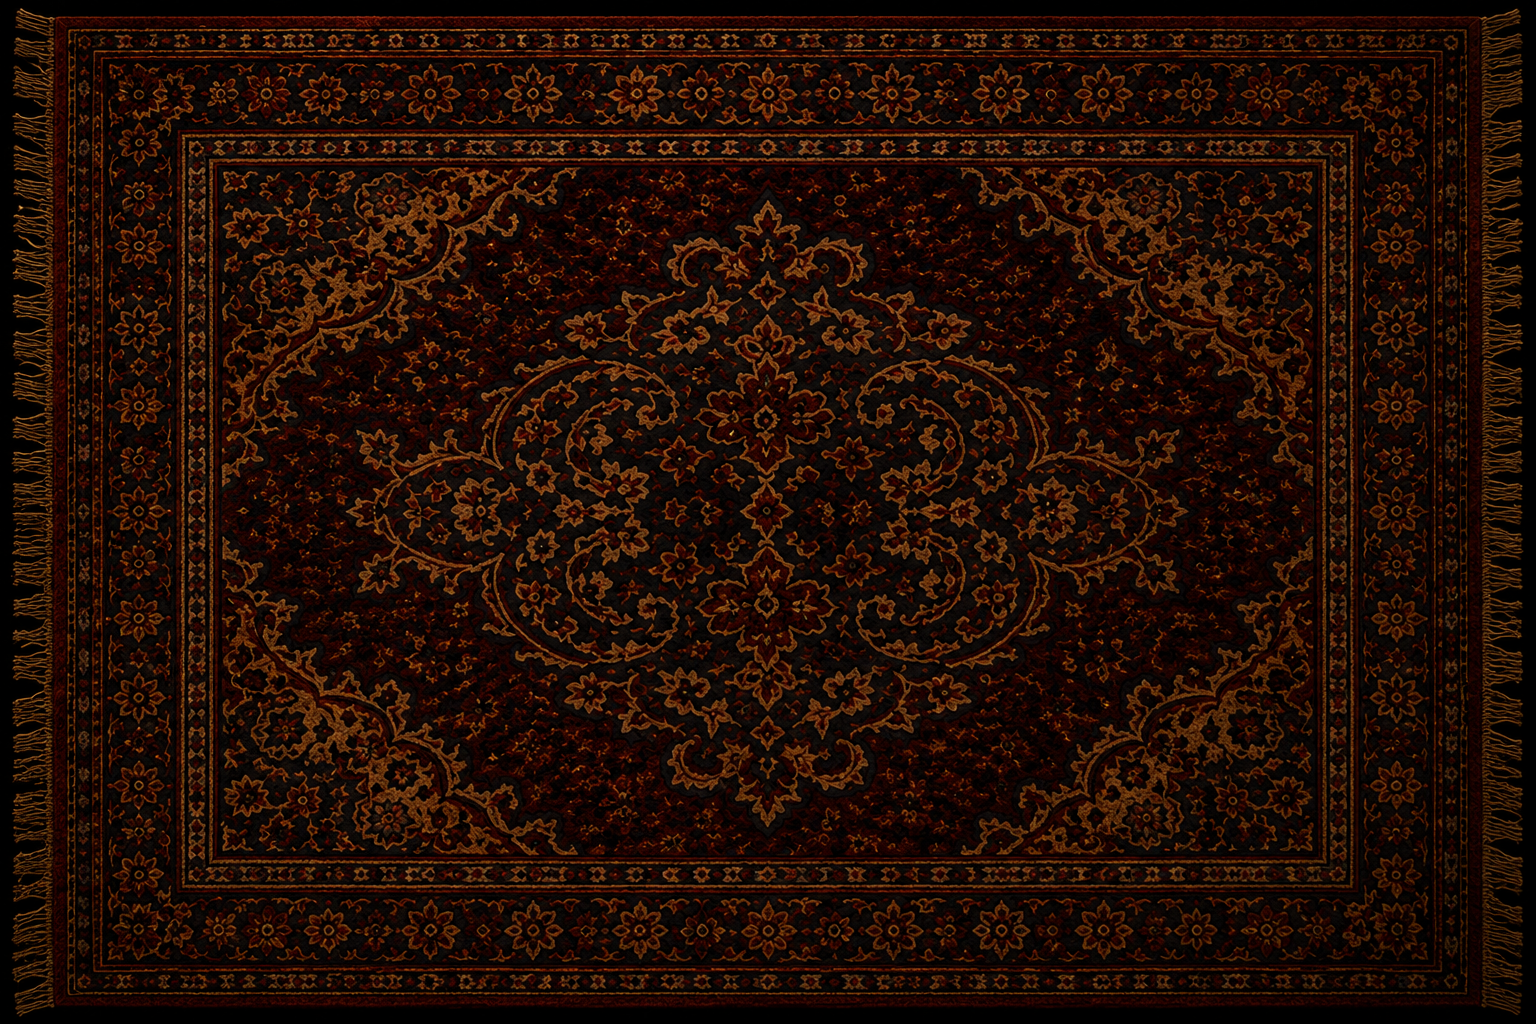
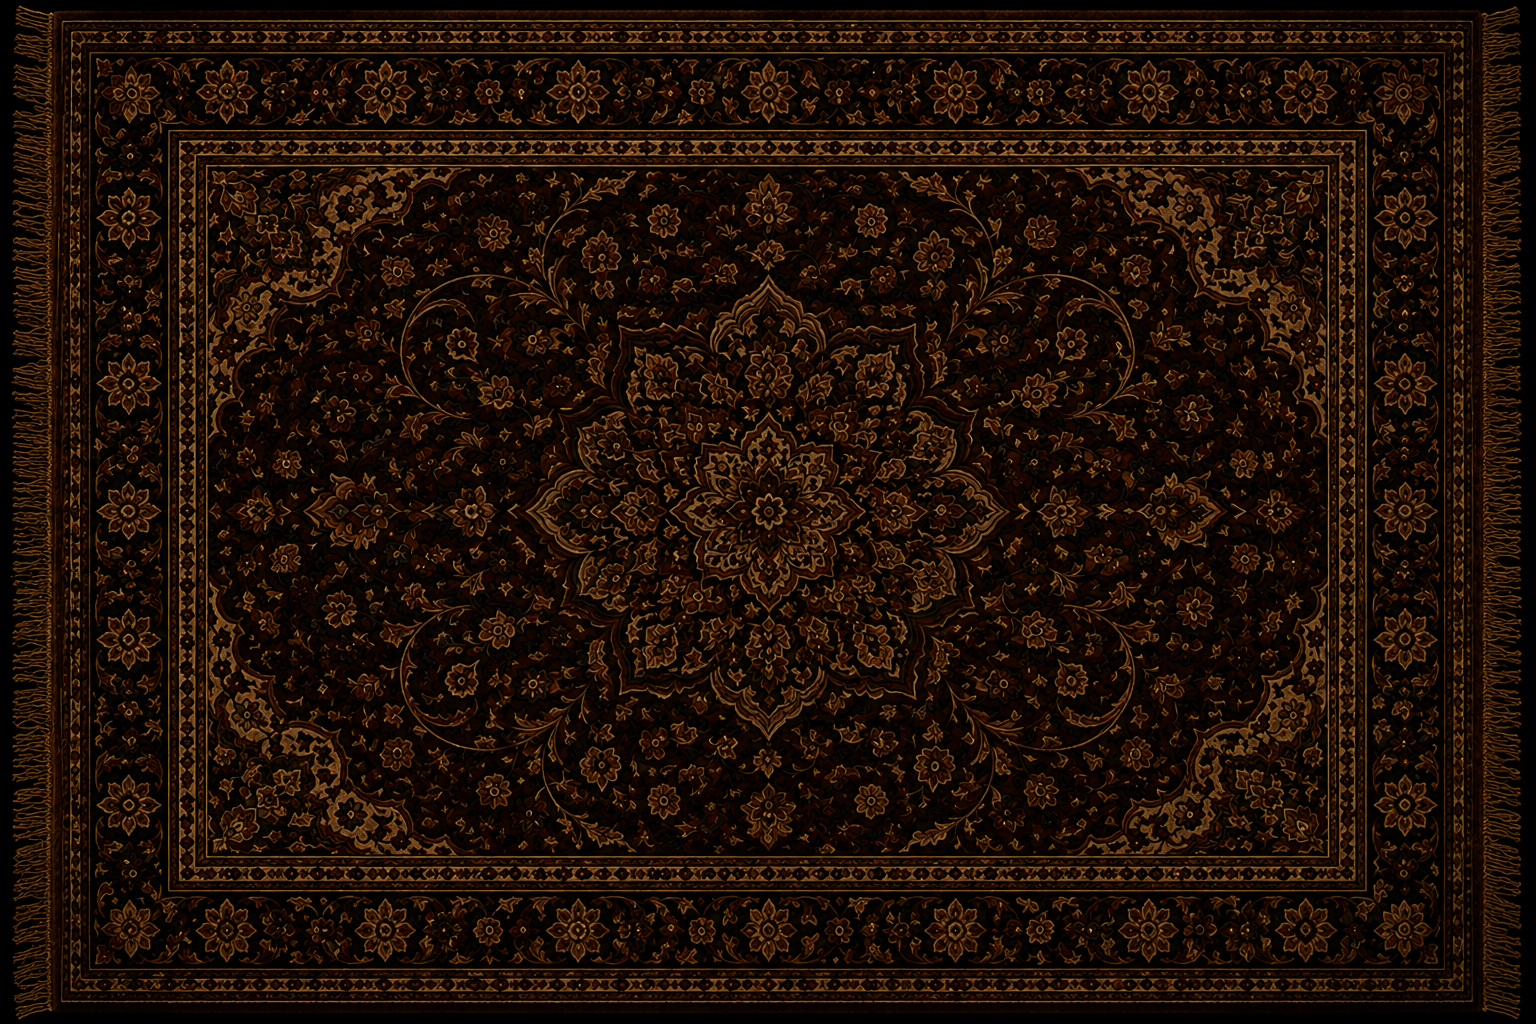
Apply full rug background

diff --git a/style.css b/style.css
@@ -1,3 +1,18 @@
+body::before {
+    content: "";
+    position: fixed;
+    inset: 0;
+    z-index: -2;
+
+    background:
+        linear-gradient(rgba(0,0,0,0.38), rgba(0,0,0,0.55)),
+        url("images/rug-background.png");
+
+    background-size: cover;
+    background-position: center;
+    background-repeat: no-repeat;
+}
+
 @import url('https://fonts.googleapis.com/css2?family=Outfit:wght@300;400;500;700;800;900&display=swap');
 
 html,
@@ -8,7 +23,7 @@ body {
     height: 100%;
     overflow: hidden;
     font-family: 'Outfit', Arial, sans-serif;
-    background: #111;
+    background: transparent;
     color: #eee;
 }
 
@@ -20,6 +35,7 @@ body {
     position: fixed;
     inset: 0;
     z-index: 0;
+    background: transparent;
 }
 
 #three-root canvas {

diff --git a/board3d.js b/board3d.js
@@ -191,7 +191,7 @@ const stoneMaterial = new THREE.MeshStandardMaterial({
 const boardGroup = new THREE.Group();
 scene.add(boardGroup);
 
-scene.background = new THREE.Color(0x090403);
+scene.background = null;
 
 /* RUG BACKGROUND FLOOR */
 const rugTexture = new THREE.TextureLoader().load('images/rug-background.png');
